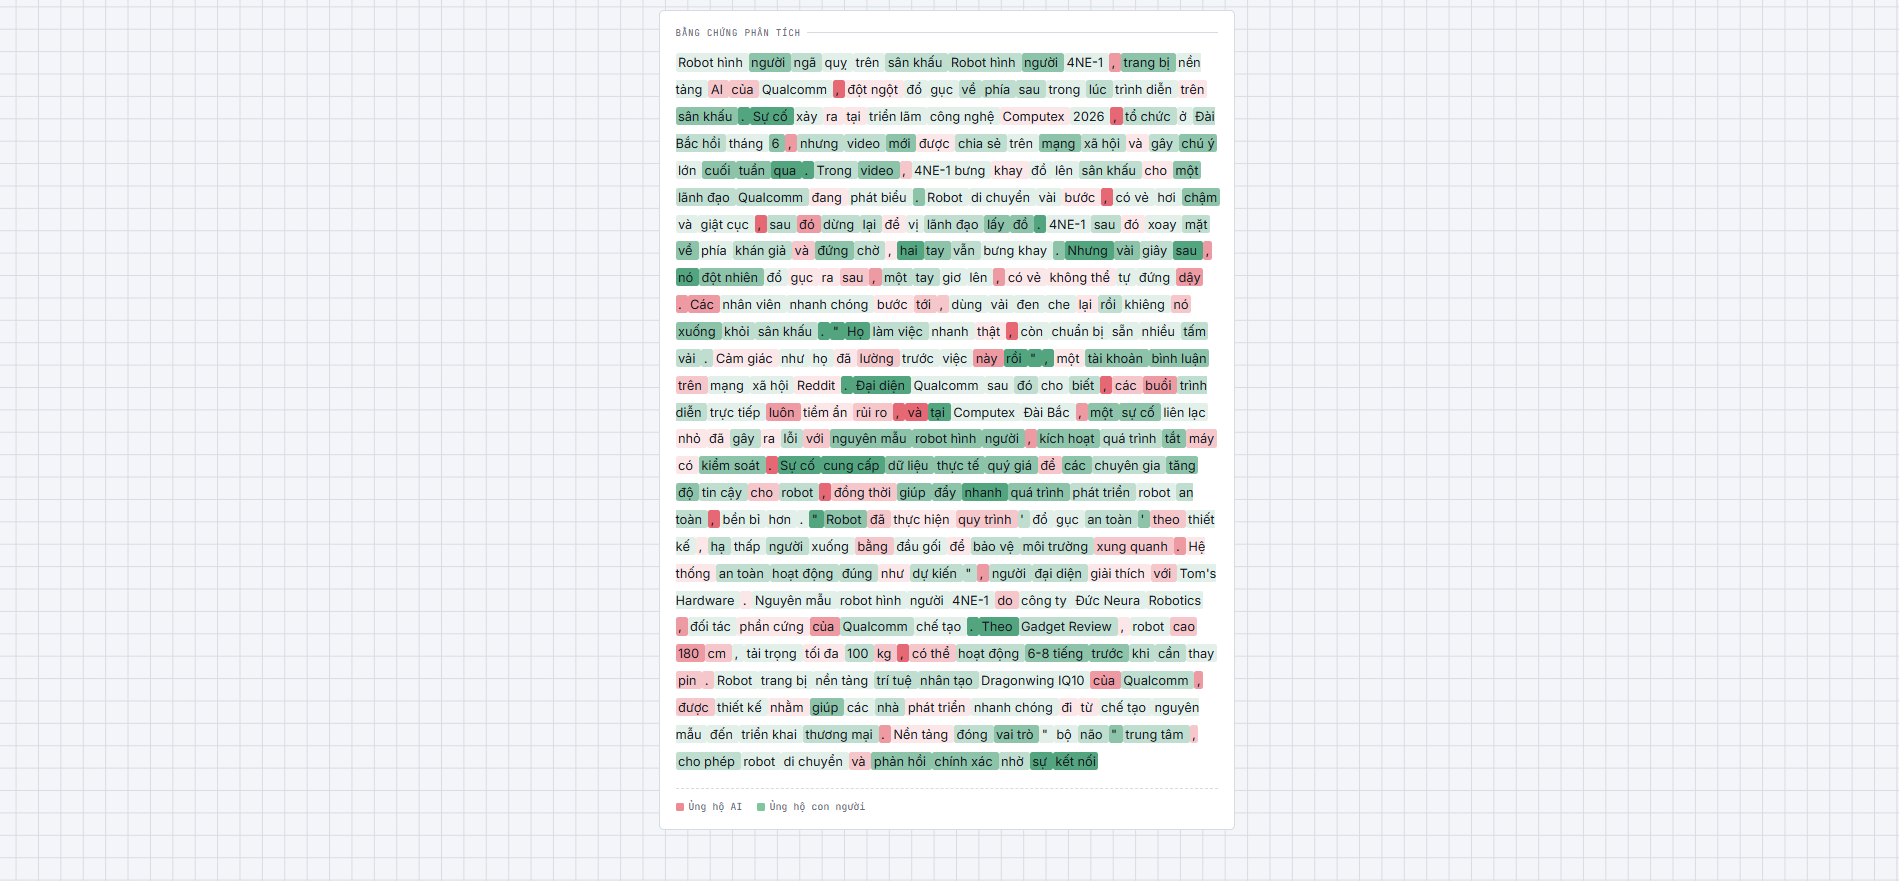
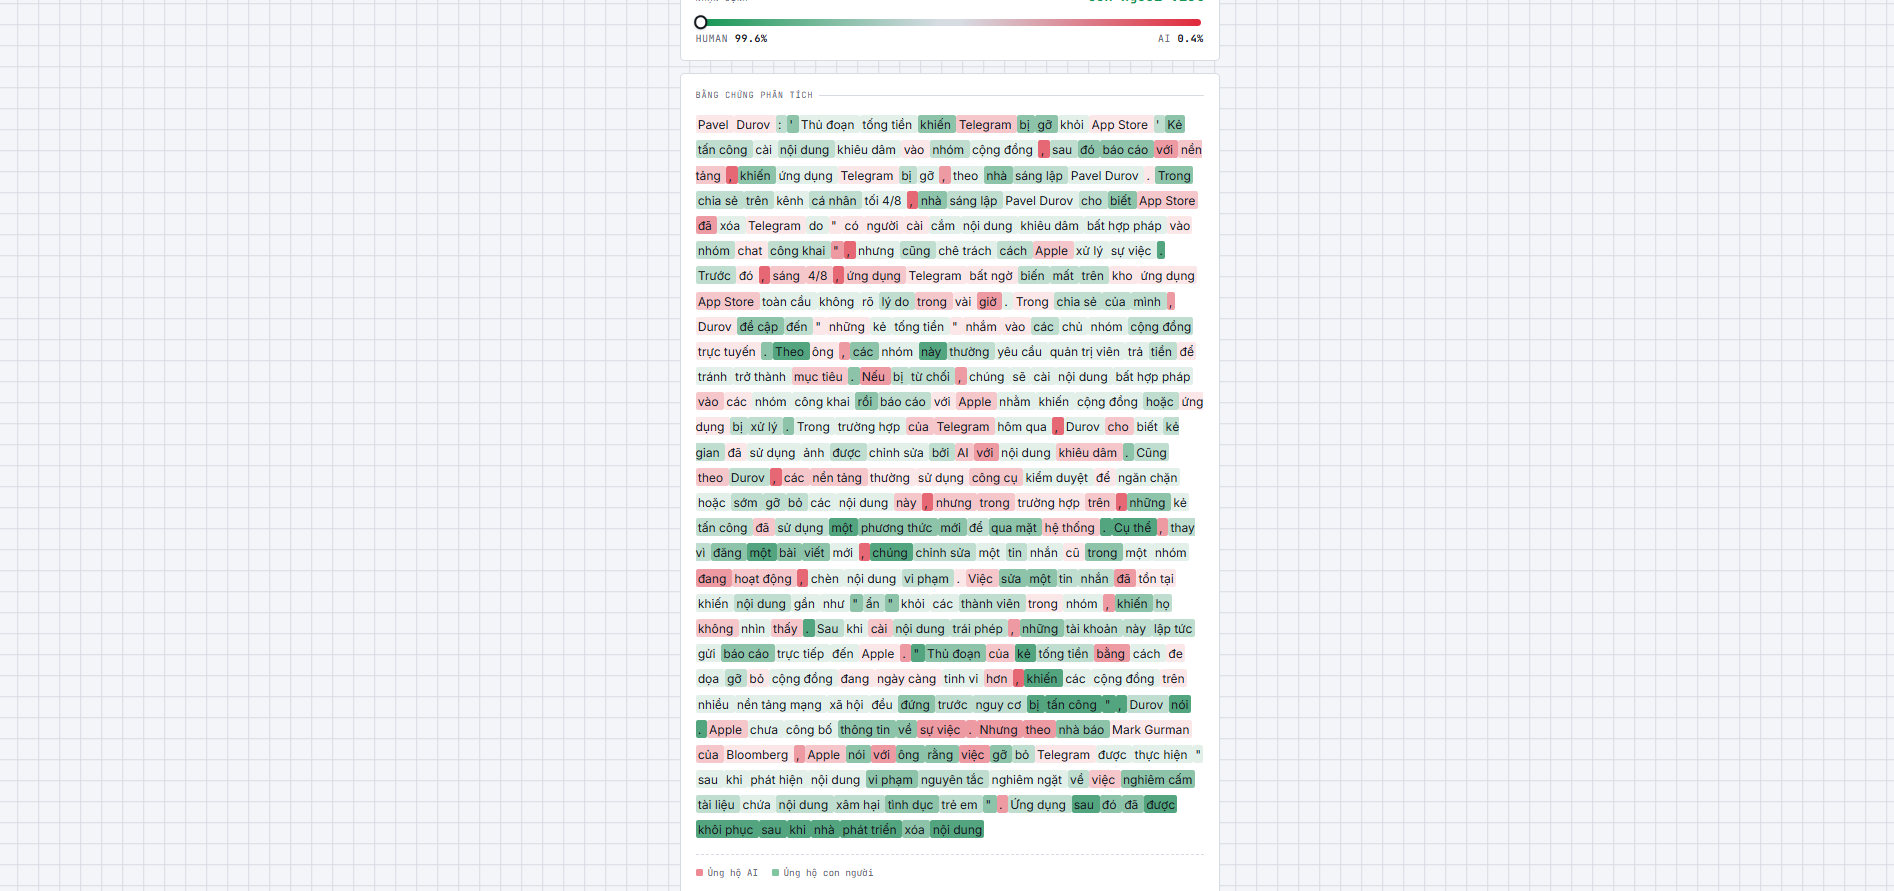
Add API Gemini key

Changed region(s): [[0.3427, 0.0, 0.6542, 1.0], [0.5607, 0.9807, 0.623, 1.0]]

diff --git a/frontend/src/App.jsx b/frontend/src/App.jsx
@@ -1,7 +1,8 @@
 import { useState } from 'react';
-import { predictText, explainText } from './api';
+import { predictText, explainText, explainLlmText } from './api';
 import PredictionResult from './components/PredictionResult';
 import HighlightedText from './components/HighlightedText';
+import LlmExplanation from './components/LlmExplanation';
 
 export default function App() {
   const [text, setText] = useState('');
@@ -9,6 +10,8 @@ export default function App() {
   const [explanation, setExplanation] = useState(null);
   const [loadingPredict, setLoadingPredict] = useState(false);
   const [loadingExplain, setLoadingExplain] = useState(false);
+  const [llmExplanation, setLlmExplanation] = useState(null);
+  const [loadingLlm, setLoadingLlm] = useState(false);
   const [error, setError] = useState(null);
 
   async function handlePredict() {
@@ -37,6 +40,19 @@ export default function App() {
       setError('Không thể tạo giải thích cho văn bản này.');
     } finally {
       setLoadingExplain(false);
+    }
+  }
+
+  async function handleExplainLlm() {
+    setError(null);
+    setLoadingLlm(true);
+    try {
+      setLlmExplanation(await explainLlmText(text));
+    } catch (err) {
+      console.error('Explain-LLM error:', err);
+      setError('Không thể tạo giải thích AI. Có thể đã vượt giới hạn gọi Gemini.');
+    } finally {
+      setLoadingLlm(false);
     }
   }
 
@@ -74,6 +90,11 @@ export default function App() {
               {loadingExplain ? 'Đang tạo giải thích...' : 'Xem giải thích'}
             </button>
           )}
+          {prediction && (
+            <button className="btn-secondary" onClick={handleExplainLlm} disabled={loadingLlm}>
+              {loadingLlm ? 'Đang hỏi AI...' : 'Giải thích bằng AI'}
+            </button>
+          )}
         </div>
         {error && <p className="error-banner">{error}</p>}
       </div>
@@ -88,6 +109,13 @@ export default function App() {
             <span><span className="swatch" style={{ background: 'rgba(224,41,58,0.55)' }} />Ủng hộ AI</span>
             <span><span className="swatch" style={{ background: 'rgba(21,150,82,0.55)' }} />Ủng hộ con người</span>
           </div>
+        </div>
+      )}
+
+      {llmExplanation && (
+        <div className="panel">
+          <p className="section-label">Giải thích ngôn ngữ tự nhiên (Gemini)</p>
+          <LlmExplanation bullets={llmExplanation.bullets} cached={llmExplanation.cached} />
         </div>
       )}
     </div>

diff --git a/frontend/src/styles.css b/frontend/src/styles.css
@@ -315,3 +315,14 @@ button:disabled {
 @media (prefers-reduced-motion: reduce) {
   button { transition: none; }
 }
+.llm-bullets { 
+  margin: 0; 
+  padding-left: 20px; 
+  line-height: 1.8; 
+}
+.cache-note { 
+  font-family: var(--mono); 
+  font-size: 0.75rem; 
+  color: var(--ink-dim); 
+  margin-top: 8px; 
+}

diff --git a/frontend/src/components/LlmExplanation.jsx b/frontend/src/components/LlmExplanation.jsx
@@ -1,0 +1,10 @@
+export default function LlmExplanation({bullets, cached}) {
+  return (
+    <div>
+      <ul className="llm-bullets">
+        {bullets.map((b, i) => <li key={i}>{b}</li>)}
+      </ul>
+      {cached && <p className="cache-note">(kết quả từ cache)</p>}
+    </div>
+  );
+}

diff --git a/frontend/src/api.js b/frontend/src/api.js
@@ -16,3 +16,4 @@ async function postJSON(path, body) {
 
 export const predictText = (text) => postJSON('/predict', {text})
 export const explainText = (text) => postJSON('/explain', {text})
+export const explainLlmText = (text) => postJSON('/explain-llm', { text });

diff --git a/backend/app/services/gemini_service.py b/backend/app/services/gemini_service.py
@@ -1,0 +1,102 @@
+import hashlib
+import logging
+import google.generativeai as genai
+from..core.config import Settings
+from .rate_limiter import GlobalRateLimiter
+
+logger = logging.getLogger(__name__)
+
+PROMPT_TEMPLATE = """
+Bạn là trợ lý giải thích kết quả của một mô hình phát hiện văn bản AI tiếng Việt.
+Model đã dự đoán: {predicted_class} (xác suất {pred_prob:.1%}).
+
+Bằng chứng đã tính được (KHÔNG được suy đoán thêm ngoài các số liệu này):
+- Từ ảnh hưởng mạnh nhất ủng hộ AI: {top_ai_words}
+- Từ ảnh hưởng mạnh nhất ủng hộ Human: {top_human_words}
+- Số câu: {sentence_count}, độ dài câu trung bình: {avg_sentence_length:.1f} từ, độ lệch chuẩn: {sentence_length_std:.1f}
+- Mật độ dấu câu: {punctuation_density:.3f}
+
+Trả lời CHÍNH XÁC theo định dạng dưới đây, MỖI BULLET TRÊN MỘT DÒNG MỚI:
+- Giải thích đầu tiên
+- Giải thích thứ hai
+- Giải thích thứ ba
+(và cứ như vậy, tối đa 5 bullet)
+
+Giải thích vì sao văn bản có đặc điểm trên, CHỈ dựa trên các số liệu đã cho, không thêm thông tin ngoài dữ liệu này.
+"""
+
+class GeminiExplanationService:
+    def __init__(self, settings: Settings):
+        self.enabled = bool(settings.gemini_api_key)
+        self._cache: dict[str, list[str]] = {}
+        self._cache_order: list[str] = []
+        self._cache_max_size = 200
+        self.rate_limiter = GlobalRateLimiter(max_calls=settings.gemini_rate_limit_per_minute)
+
+        if self.enabled:
+            genai.configure(api_key=settings.gemini_api_key)
+            self.model_client = genai.GenerativeModel(settings.gemini_model)
+
+    @staticmethod
+    def _cache_key(text):
+        return hashlib.sha256(text.encode('utf-8')).hexdigest()
+
+    def explain(self, cleaned_text, predicted_class, pred_prob, signals):
+        if not self.enabled:
+            raise RuntimeError('GEMINI_API_KEY chưa được cấu hình')
+
+        key = self._cache_key(cleaned_text)
+        if key in self._cache:
+            return {
+                'bullets': self._cache[key],
+                'cached': True
+            }
+
+        if not self.rate_limiter.allow():
+            raise RuntimeError('Đã vượt quá giới hạn gọi Gemini trong phút này, thử lại sau')
+
+        prompt = PROMPT_TEMPLATE.format(
+            predicted_class=predicted_class,
+            pred_prob=pred_prob,
+            top_ai_words=', '.join(signals['top_ai_words']) or '(không có)',
+            top_human_words=', '.join(signals['top_human_words']) or '(không có)',
+            sentence_count=signals['sentence_count'],
+            avg_sentence_length=signals['avg_sentence_length'],
+            sentence_length_std=signals['sentence_length_std'],
+            punctuation_density=signals['punctuation_density']
+        )
+
+        try: 
+            response = self.model_client.generate_content(prompt)
+            text = response.text.strip()
+            bullets = []
+            for line in text.splitlines():
+                line = line.strip()
+                if line.startswith('* '):
+                    bullet = line[2:].strip() 
+                    bullet = bullet.lstrip('*').strip() 
+                    if bullet:
+                        bullets.append(bullet)
+
+            if not bullets:
+                bullets = [b.strip() for b in text.split('*') if b.strip()]
+
+            if not bullets:
+                bullets = [text]
+        except Exception as e:
+            logger.exception('Gemini call failed')
+            logger.error(f'Lỗi Gemini API: {e}')
+            raise RuntimeError('Không gọi được Gemini API')
+
+        bullets = [line.lstrip("- ").strip() for line in text.splitlines() if line.strip().startswith("-")]
+        if not bullets:
+            bullets = [text]
+        self._cache[key] = bullets
+        self._cache_order.append(key)
+        if len(self._cache_order) > self._cache_max_size:
+            self._cache.pop(self._cache_order.pop(0), None)
+
+        return {
+            'bullets': bullets,
+            'cached': False
+        }

diff --git a/backend/app/routers/explain_llm.py b/backend/app/routers/explain_llm.py
@@ -1,0 +1,33 @@
+import logging
+from fastapi import APIRouter, Depends, HTTPException
+from ..dependencies import get_model_service, get_gemini_service
+from ..services.model_service import ModelService
+from ..services.gemini_service import GeminiExplanationService
+from ..schemas.text import TextRequest, ExplainLLMResponse
+from src.explainability.features import compute_signals
+
+logger = logging.getLogger(__name__)
+router = APIRouter()
+
+@router.post("/explain-llm", response_model=ExplainLLMResponse)
+def explain_llm(req: TextRequest,
+    model_service: ModelService = Depends(get_model_service),
+    gemini_service: GeminiExplanationService = Depends(get_gemini_service)
+):
+    try:
+        pred = model_service.predict(req.text)
+        attribution = model_service.explain(pred["cleaned_text"])
+        signals = compute_signals(pred["cleaned_text"], attribution["tokens"], attribution["scores"])
+        if pred['predicted_class'] == 'AI':
+            pred_prob = pred['prob_ai']
+        else:
+            pred_prob = pred['prob_human']
+        result = gemini_service.explain(
+            pred['cleaned_text'], pred['predicted_class'], pred_prob, signals
+        )
+    except RuntimeError as e:
+        raise HTTPException(status_code=429 if "giới hạn" in str(e) else 503, detail=str(e))
+    except Exception:
+        logger.exception("explain-llm failed")
+        raise HTTPException(status_code=500, detail="Không thể tạo giải thích AI")
+    return ExplainLLMResponse(**result)

diff --git a/src/explainability/features.py b/src/explainability/features.py
@@ -1,0 +1,20 @@
+import re
+import statistics
+
+def compute_signals(cleaned_text, tokens, scores, top_k = 8):
+    paired = sorted(zip(tokens, scores), key=lambda x: abs(x[1]), reverse=True)
+    top_ai_words = [w for w, s in paired if s > 0][:top_k]
+    top_human_words = [w for w, s in paired if s < 0][:top_k]
+
+    sentences = [s.strip() for s in re.split(r'[.!?]', cleaned_text) if s.strip()]
+    sentence_lengths = [len(s.split()) for s in sentences]
+    punct_count = len(re.findall(r'[^\w\sÀ-ỹ]', cleaned_text))
+
+    return {
+        'top_ai_words': top_ai_words,
+        'top_human_words': top_human_words,
+        'sentence_count': len(sentences),
+        'avg_sentence_length': sum(sentence_lengths) / max(len(sentence_lengths), 1),
+        'sentence_length_std': statistics.pstdev(sentence_lengths) if len(sentence_lengths) > 1 else 0.0,
+        'punctuation_density': punct_count / max(len(cleaned_text), 1)
+    }

diff --git a/backend/app/main.py b/backend/app/main.py
@@ -4,7 +4,8 @@ from fastapi import FastAPI
 from fastapi.middleware.cors import CORSMiddleware
 from .core.config import settings
 from .services.model_service import ModelService
-from .routers import health, explain, predict
+from .services.gemini_service import GeminiExplanationService
+from .routers import health, explain, predict, explain_llm
 
 logging.basicConfig(level=logging.INFO)
 
@@ -13,6 +14,7 @@ async def lifespan(app: FastAPI):
     service = ModelService(settings)
     service.load() # load model 1 time when server starts
     app.state.model_service = service
+    app.state.gemini_service = GeminiExplanationService(settings)
     yield
 
     # No cleanup here
@@ -28,3 +30,4 @@ app.add_middleware(
 app.include_router(health.router)
 app.include_router(predict.router)
 app.include_router(explain.router)
+app.include_router(explain_llm.router)

diff --git a/backend/app/services/rate_limiter.py b/backend/app/services/rate_limiter.py
@@ -1,0 +1,20 @@
+import threading
+import time
+from collections import deque
+
+class GlobalRateLimiter:
+    def __init__(self, max_calls, period_seconds = 60.0):
+        self.max_calls = max_calls
+        self.period = period_seconds
+        self._timestamps: deque[float] = deque()
+        self._lock = threading.Lock()
+
+    def allow(self):
+        now = time.monotonic()
+        with self._lock:
+            while self._timestamps and now - self._timestamps[0] > self.period:
+                self._timestamps.popleft()
+            if len(self._timestamps) >= self.max_calls:
+                return False
+            self._timestamps.append(now)
+            return True

diff --git a/backend/app/core/config.py b/backend/app/core/config.py
@@ -8,8 +8,12 @@ class Settings(BaseSettings):
     ig_n_steps: int = 25
     cors_origins: list[str] = ['http://localhost:5173', 'http://localhost:3000']
 
+    gemini_api_key: str = ''
+    gemini_model: str = 'gemini-2.5-flash'
+    gemini_rate_limit_per_minute: int = 10
+
     class Config:
         env_file = '.env'
-        env_prefix = 'APP_'
+        env_prefix = 'app_'
 
 settings = Settings()

diff --git a/backend/app/dependencies.py b/backend/app/dependencies.py
@@ -2,3 +2,6 @@ from fastapi import Request
 
 def get_model_service(request: Request):
     return request.app.state.model_service
+
+def get_gemini_service(request: Request):
+    return request.app.state.gemini_service

diff --git a/backend/app/schemas/text.py b/backend/app/schemas/text.py
@@ -13,3 +13,7 @@ class ExplainResponse(BaseModel):
     scores: list[float]
     predicted_label: int
     pred_prob: float
+
+class ExplainLLMResponse(BaseModel):
+    bullets: list[str]
+    cached: bool
